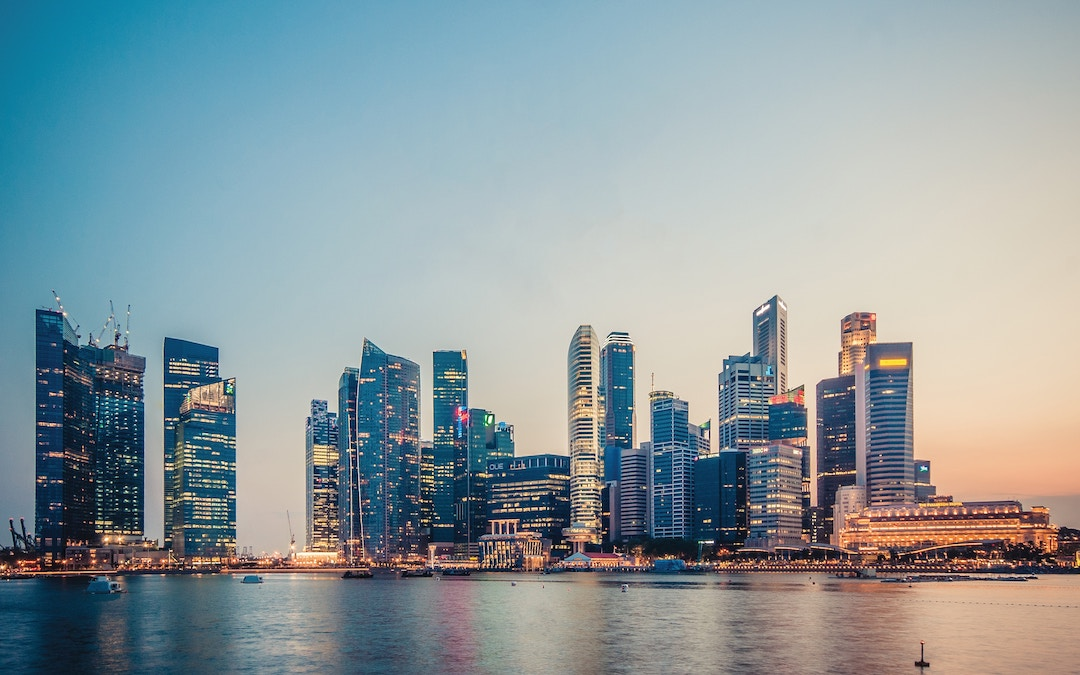
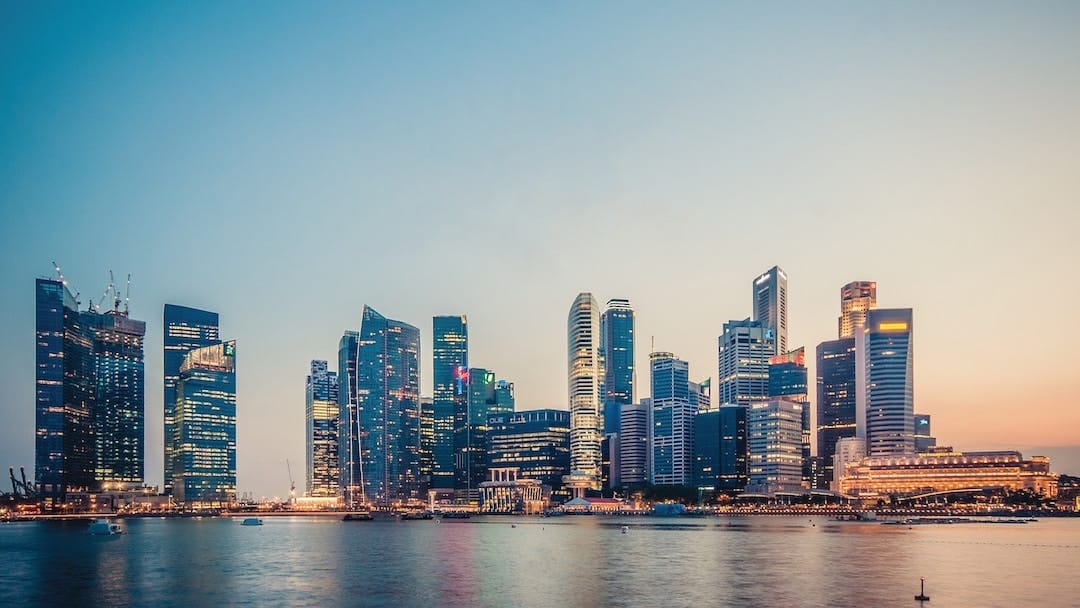
Site updated: 2019-01-01 19:04:16

diff --git a/2018/12/08/博客搭建记录/index.html b/2018/12/08/博客搭建记录/index.html
@@ -53,7 +53,7 @@
 
 
 <!-- header -->
-<header class="fixbackground" data-img-mode="normal" data-normal-src="https://source.unsplash.com/collection/954550/1920x1080" data-random-max="110" data-random-src="https://sariay.github.io/Random-img/">
+<header class="fixbackground" data-img-mode="normal" data-normal-src="/img/46.jpg" data-random-max="110" data-random-src="https://sariay.github.io/Random-img/">
 	<div class="mask">
 		<div class="h-header">
 			<div id="logo-S">

diff --git a/2018/12/09/Markdown/index.html b/2018/12/09/Markdown/index.html
@@ -53,7 +53,7 @@
 
 
 <!-- header -->
-<header class="fixbackground" data-img-mode="normal" data-normal-src="https://source.unsplash.com/collection/954550/1920x1080" data-random-max="110" data-random-src="https://sariay.github.io/Random-img/">
+<header class="fixbackground" data-img-mode="normal" data-normal-src="/img/46.jpg" data-random-max="110" data-random-src="https://sariay.github.io/Random-img/">
 	<div class="mask">
 		<div class="h-header">
 			<div id="logo-S">

diff --git a/2018/12/11/法律文书排版指引/index.html b/2018/12/11/法律文书排版指引/index.html
@@ -53,7 +53,7 @@
 
 
 <!-- header -->
-<header class="fixbackground" data-img-mode="normal" data-normal-src="https://source.unsplash.com/collection/954550/1920x1080" data-random-max="110" data-random-src="https://sariay.github.io/Random-img/">
+<header class="fixbackground" data-img-mode="normal" data-normal-src="/img/46.jpg" data-random-max="110" data-random-src="https://sariay.github.io/Random-img/">
 	<div class="mask">
 		<div class="h-header">
 			<div id="logo-S">

diff --git a/2018/12/11/诉讼策略分析报告（一）/index.html b/2018/12/11/诉讼策略分析报告（一）/index.html
@@ -53,7 +53,7 @@
 
 
 <!-- header -->
-<header class="fixbackground" data-img-mode="normal" data-normal-src="https://source.unsplash.com/collection/954550/1920x1080" data-random-max="110" data-random-src="https://sariay.github.io/Random-img/">
+<header class="fixbackground" data-img-mode="normal" data-normal-src="/img/46.jpg" data-random-max="110" data-random-src="https://sariay.github.io/Random-img/">
 	<div class="mask">
 		<div class="h-header">
 			<div id="logo-S">

diff --git a/2018/12/11/诉讼策略分析报告（二）/index.html b/2018/12/11/诉讼策略分析报告（二）/index.html
@@ -53,7 +53,7 @@
 
 
 <!-- header -->
-<header class="fixbackground" data-img-mode="normal" data-normal-src="https://source.unsplash.com/collection/954550/1920x1080" data-random-max="110" data-random-src="https://sariay.github.io/Random-img/">
+<header class="fixbackground" data-img-mode="normal" data-normal-src="/img/46.jpg" data-random-max="110" data-random-src="https://sariay.github.io/Random-img/">
 	<div class="mask">
 		<div class="h-header">
 			<div id="logo-S">

diff --git a/2018/12/11/诉讼策略分析报告（整理版）/index.html b/2018/12/11/诉讼策略分析报告（整理版）/index.html
@@ -53,7 +53,7 @@
 
 
 <!-- header -->
-<header class="fixbackground" data-img-mode="normal" data-normal-src="https://source.unsplash.com/collection/954550/1920x1080" data-random-max="110" data-random-src="https://sariay.github.io/Random-img/">
+<header class="fixbackground" data-img-mode="normal" data-normal-src="/img/46.jpg" data-random-max="110" data-random-src="https://sariay.github.io/Random-img/">
 	<div class="mask">
 		<div class="h-header">
 			<div id="logo-S">

diff --git a/2018/12/15/法律文书命名及校对指引/index.html b/2018/12/15/法律文书命名及校对指引/index.html
@@ -53,7 +53,7 @@
 
 
 <!-- header -->
-<header class="fixbackground" data-img-mode="normal" data-normal-src="https://source.unsplash.com/collection/954550/1920x1080" data-random-max="110" data-random-src="https://sariay.github.io/Random-img/">
+<header class="fixbackground" data-img-mode="normal" data-normal-src="/img/46.jpg" data-random-max="110" data-random-src="https://sariay.github.io/Random-img/">
 	<div class="mask">
 		<div class="h-header">
 			<div id="logo-S">

diff --git a/2018/12/23/终于搭建完无线打印功能了/index.html b/2018/12/23/终于搭建完无线打印功能了/index.html
@@ -53,7 +53,7 @@
 
 
 <!-- header -->
-<header class="fixbackground" data-img-mode="normal" data-normal-src="https://source.unsplash.com/collection/954550/1920x1080" data-random-max="110" data-random-src="https://sariay.github.io/Random-img/">
+<header class="fixbackground" data-img-mode="normal" data-normal-src="/img/46.jpg" data-random-max="110" data-random-src="https://sariay.github.io/Random-img/">
 	<div class="mask">
 		<div class="h-header">
 			<div id="logo-S">

diff --git a/about/index.html b/about/index.html
@@ -53,7 +53,7 @@
 
 
 <!-- header -->
-<header class="fixbackground" data-img-mode="normal" data-normal-src="https://source.unsplash.com/collection/954550/1920x1080" data-random-max="110" data-random-src="https://sariay.github.io/Random-img/">
+<header class="fixbackground" data-img-mode="normal" data-normal-src="/img/46.jpg" data-random-max="110" data-random-src="https://sariay.github.io/Random-img/">
 	<div class="mask">
 		<div class="h-header">
 			<div id="logo-S">

diff --git a/archives/2018/12/index.html b/archives/2018/12/index.html
@@ -53,7 +53,7 @@
 
 
 <!-- header -->
-<header class="fixbackground" data-img-mode="normal" data-normal-src="https://source.unsplash.com/collection/954550/1920x1080" data-random-max="110" data-random-src="https://sariay.github.io/Random-img/">
+<header class="fixbackground" data-img-mode="normal" data-normal-src="/img/46.jpg" data-random-max="110" data-random-src="https://sariay.github.io/Random-img/">
 	<div class="mask">
 		<div class="h-header">
 			<div id="logo-S">

diff --git a/archives/2018/index.html b/archives/2018/index.html
@@ -53,7 +53,7 @@
 
 
 <!-- header -->
-<header class="fixbackground" data-img-mode="normal" data-normal-src="https://source.unsplash.com/collection/954550/1920x1080" data-random-max="110" data-random-src="https://sariay.github.io/Random-img/">
+<header class="fixbackground" data-img-mode="normal" data-normal-src="/img/46.jpg" data-random-max="110" data-random-src="https://sariay.github.io/Random-img/">
 	<div class="mask">
 		<div class="h-header">
 			<div id="logo-S">

diff --git a/archives/index.html b/archives/index.html
@@ -53,7 +53,7 @@
 
 
 <!-- header -->
-<header class="fixbackground" data-img-mode="normal" data-normal-src="https://source.unsplash.com/collection/954550/1920x1080" data-random-max="110" data-random-src="https://sariay.github.io/Random-img/">
+<header class="fixbackground" data-img-mode="normal" data-normal-src="/img/46.jpg" data-random-max="110" data-random-src="https://sariay.github.io/Random-img/">
 	<div class="mask">
 		<div class="h-header">
 			<div id="logo-S">
